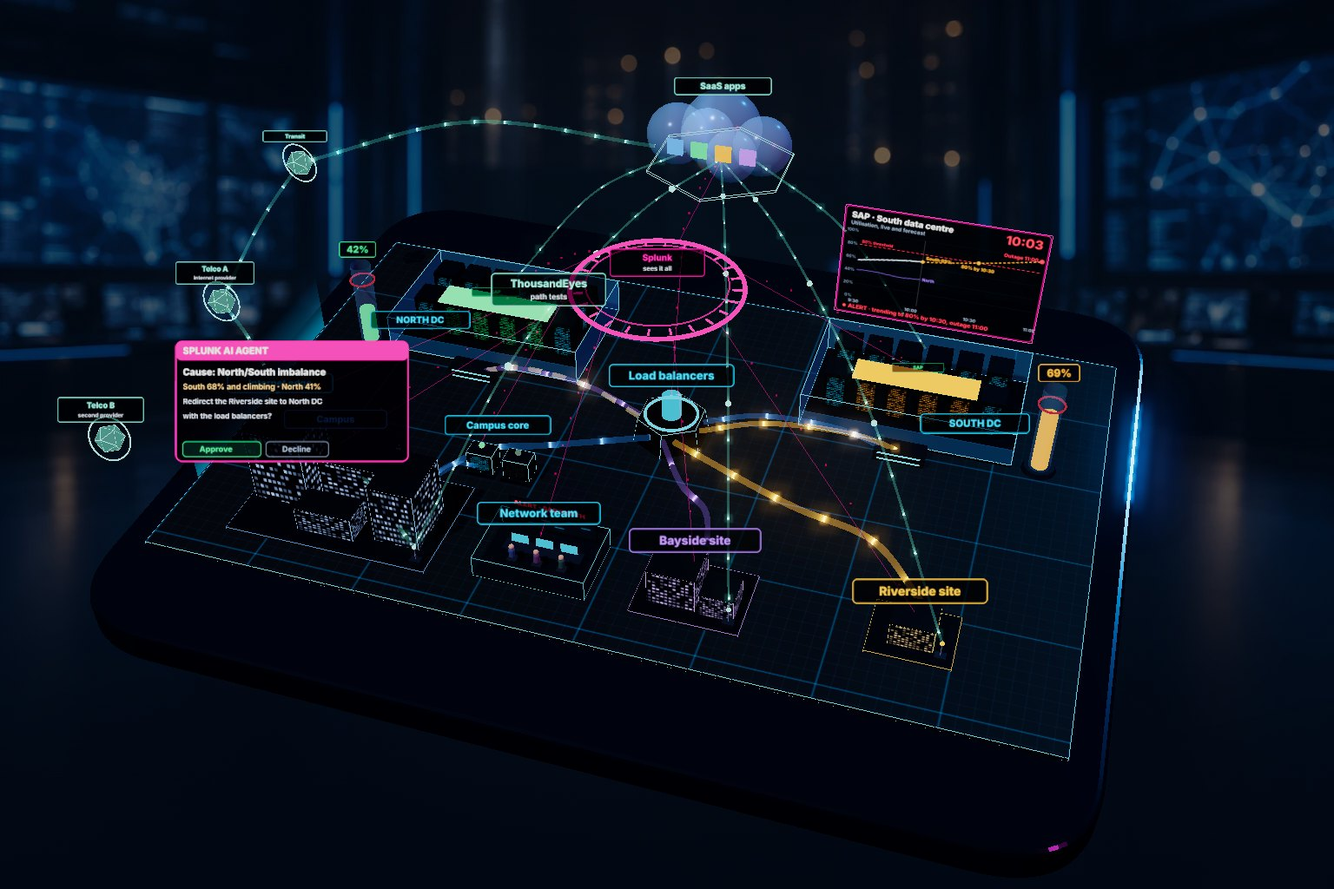
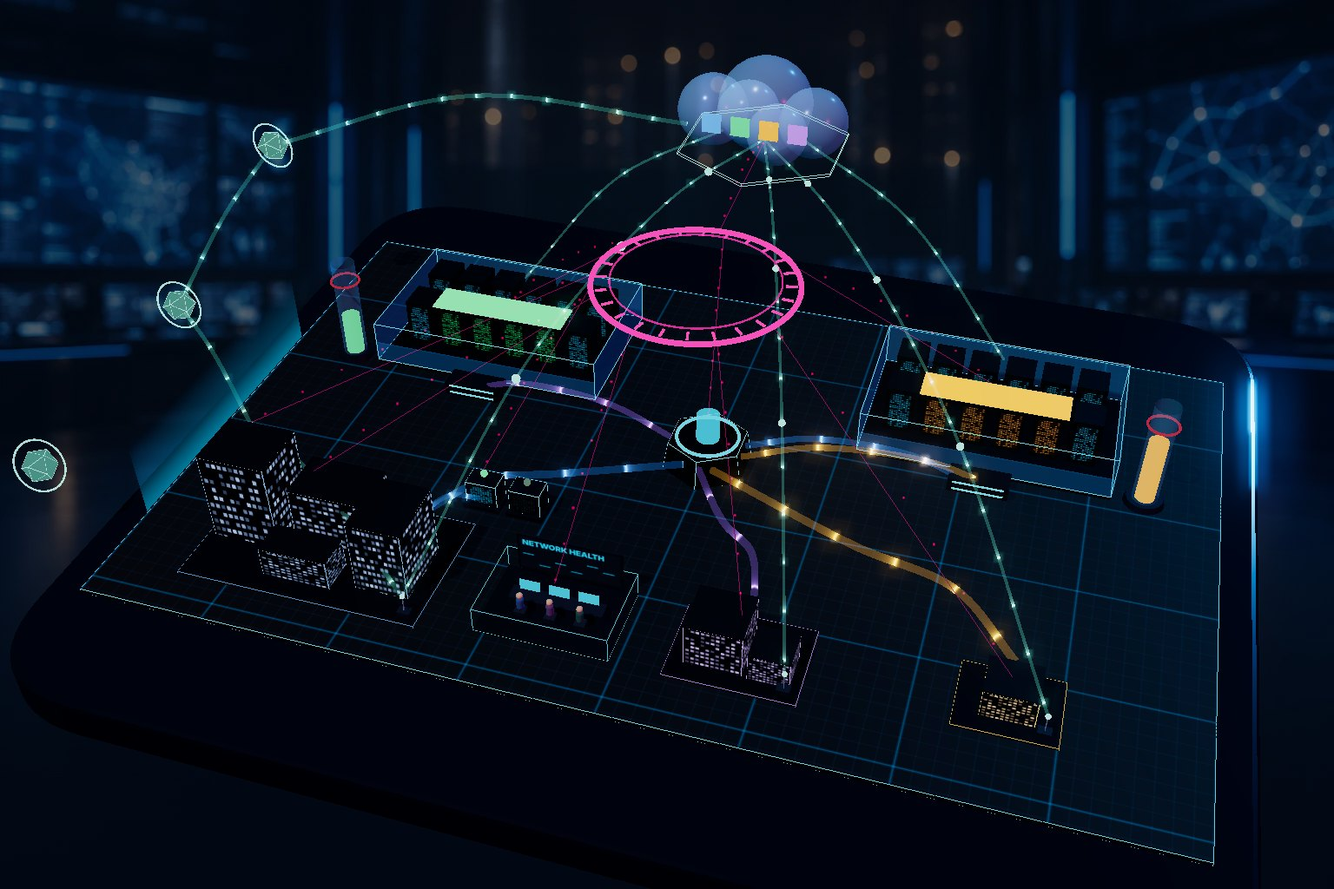
AI Lab: Play all three and Next place in every world; Splunk lab clean board and poster
LabExplorer gains a Play all button (plays the three places in order, each
moving on a moment after it ends) and a Next place button when an exhibit
ends; switching places inside the close-up replaces the URL so Close still
leaves. Renderer synced: the Splunk board shows only its three markers in the
AI Lab, markers in every world step aside instead of vanishing on small
canvases, and the alert storm names Event iQ's recommendation. Share collage
refreshed with the clean Splunk poster.

Validated: tsc, production build, play-all probe at 1440x900 and 390x844
(1 of 3 -> 2 of 3 -> 3 of 3, Next buttons, run ends after the last, no errors).

Claude-Session: https://claude.ai/code/session_01KTF4TLEyB4dRbRHCAgEm3H

diff --git a/app/ai-lab/LabExplorer.tsx b/app/ai-lab/LabExplorer.tsx
@@ -22,8 +22,12 @@ export default function LabExplorer({industry}:{industry:LabIndustry}){
  const request=useRef(0),returnFocus=useRef<HTMLElement|null>(null),idRef=useRef<string|null>(null),pushed=useRef(false),full=useRef(false),nativeFull=useRef(false),ignoreCloseUntil=useRef(0),fullscreenButton=useRef<HTMLButtonElement>(null);
  const [id,setId]=useState<string|null>(null),[ready,setReady]=useState(false),[loaded,setLoaded]=useState(false),[failed,setFailed]=useState(false),[phase,setPhase]=useState(0),[playing,setPlaying]=useState(true);
  const [fullscreen,setFullscreen]=useState(false),[rs,setRs]=useState<RecipeState|null>(null);
+ // Play all three (owner, 30 Oct 2026: "an easy way to play all three"): the places play in order, each moving on a
+ // moment after it ends. Choosing a place yourself or closing the close-up ends the run.
+ const [tour,setTour]=useState(false),tourRef=useRef(false);tourRef.current=tour;
  const {registry,failed:registryFailed}=useLabRegistry(),registryRef=useRef(registry);registryRef.current=registry;
  const world=LAB_WORLDS[industry],featured=registry?.FEATURED[industry]??[];
+ const placeIndex=id?featured.findIndex(r=>r.id===id):-1,nextPlace=placeIndex>=0?featured[placeIndex+1]??null:null;
  const recipe=id&&registry&&Object.hasOwn(registry.RECIPES,id)?registry.RECIPES[id]:null;
  const legacy=id&&!recipe?EXHIBITS[id]??null:null;
  const title=recipe?.title??legacy?.title;
@@ -55,8 +59,11 @@ export default function LabExplorer({industry}:{industry:LabIndustry}){
   if(!id&&!fullscreen)return;const overflow=document.body.style.overflow;document.body.style.overflow='hidden';
   return()=>{document.body.style.overflow=overflow;};
  },[id,fullscreen]);
- const select=useCallback((next:string,history=true)=>{
+ const select=useCallback((next:string,history=true,fromTour=false)=>{
   if(!allowed(registryRef.current,industry,next))return;
+  if(!fromTour)setTour(false);
+  // Moving between places inside the close-up replaces the URL rather than stacking history, so Close still leaves.
+  if(idRef.current&&history){const url=new URL(window.location.href);url.searchParams.set('example',next);window.history.replaceState({...window.history.state,labExhibit:true},'',url);history=false;}
   if(full.current)exitFullscreen();
   returnFocus.current=document.activeElement instanceof HTMLElement?document.activeElement:null;
   if(history){const url=new URL(window.location.href);url.searchParams.set('example',next);window.history.pushState({...window.history.state,labExhibit:true},'',url);pushed.current=true;}
@@ -65,9 +72,17 @@ export default function LabExplorer({industry}:{industry:LabIndustry}){
   setId(next);
  },[industry,exitFullscreen,isModel]);
  const close=useCallback(()=>{
+  setTour(false);
   if(pushed.current){pushed.current=false;window.history.back();}
   else{const url=new URL(window.location.href);url.searchParams.delete('example');window.history.replaceState({...window.history.state,labExhibit:false},'',url);setId(null);}
  },[]);
+ // Play all: a moment after a place ends, the next one opens; after the last, the run ends.
+ useEffect(()=>{
+  if(!tour||!rs?.ended)return;
+  if(!nextPlace){setTour(false);return;}
+  const t=setTimeout(()=>{if(tourRef.current)select(nextPlace.id,true,true);},2600);
+  return()=>clearTimeout(t);
+ },[tour,rs?.ended,nextPlace,select]);
  useEffect(()=>{
   if(!registry)return;
   const read=()=>{pushed.current=!!window.history.state?.labExhibit;const query=new URLSearchParams(window.location.search).get('example');const ok=!!query&&allowed(registry,industry,query);if(ok&&isModel(query))prepare();setId(ok?query:null);};
@@ -151,10 +166,12 @@ export default function LabExplorer({industry}:{industry:LabIndustry}){
       {rs?.sensor&&<div className="ex-sensor-tag" role="status"><span>{rs.sensorTitle??'Camera view'}{rs.sensorLabel?<small> · {rs.sensorLabel}</small>:null}</span><button onClick={()=>command('sensor',{value:false})}>Back to scene</button></div>}
        <div className="ex-stops" role="group" aria-label="Chapters">{recipe.chapters.map((c,i)=><button key={c.id} data-chapter-stop={c.id} aria-current={i===chapterIndex?'step':undefined} onClick={()=>command('chapter',{index:i})}><b>{i+1}</b>{chapterName(c)}</button>)}</div>
        <div className="ex-actions">
+        {tour&&placeIndex>=0&&<span className="ex-tour" role="status">Playing all · {placeIndex+1} of {featured.length}{rs?.ended&&nextPlace?' · next in a moment':''}</span>}
         <button data-action="play" onClick={()=>command(rs?.playing?'pause':'play')}>{rs?.playing?'Pause':rs?.ended?'Play again':'Play'}</button>
         <button data-action="replay" onClick={()=>command('replay')}>Replay</button>
         <button data-action="hold" aria-pressed={!!rs?.hold} onClick={()=>command('hold',{value:!rs?.hold})} title="Pause at the end of each chapter">Hold at chapters</button>
         {narration.available&&(narration.blocked&&!narration.muted?<button data-action="sound" onClick={narration.tapForSound}>Tap for sound</button>:<button data-action="sound" aria-pressed={!narration.muted} onClick={narration.toggleMute} title="Narration">{narration.muted?'Sound off':'Sound on'}</button>)}
+        {rs?.ended&&nextPlace&&<button data-action="next-place" onClick={()=>select(nextPlace.id,true,tour)}>Next: {nextPlace.title} →</button>}
         {recipe.variation&&<button data-action="variation" aria-pressed={variationOn} onClick={()=>command('variation',{value:variationOn?null:recipe.variation!.id})} title={recipe.variation.caption}>{recipe.variation.label}</button>}
        </div>
       </div>
@@ -173,6 +190,6 @@ export default function LabExplorer({industry}:{industry:LabIndustry}){
    </dialog>
   </section>
 
-  <div className="ex-bottom"><nav className="ex-places" aria-label="Places to explore"><span className="al-eyebrow">PLACES TO EXPLORE</span>{featured.map(r=><button key={r.id} data-recipe-choice={r.id} onClick={()=>select(r.id)}>{r.title}<span>↗</span></button>)}{!registry&&!registryFailed&&<p className="ex-places-loading">Loading places…</p>}{registryFailed&&<p className="ex-places-loading">Places could not load. Select a marker in the world.</p>}</nav><p className="ex-disclosure">Fictional industry worlds · illustrative AI workflows</p><LabFooter/></div>
+  <div className="ex-bottom"><nav className="ex-places" aria-label="Places to explore"><span className="al-eyebrow">PLACES TO EXPLORE</span>{featured.length>1&&<button className="ex-play-all" data-action="play-all" onClick={()=>{const first=featured[0];if(!first)return;setTour(true);select(first.id,true,true);}}>▶ Play all {featured.length===3?'three':featured.length}<span>{featured.length} short stories, one after another</span></button>}{featured.map(r=><button key={r.id} data-recipe-choice={r.id} onClick={()=>select(r.id)}>{r.title}<span>↗</span></button>)}{!registry&&!registryFailed&&<p className="ex-places-loading">Loading places…</p>}{registryFailed&&<p className="ex-places-loading">Places could not load. Select a marker in the world.</p>}</nav><p className="ex-disclosure">Fictional industry worlds · illustrative AI workflows</p><LabFooter/></div>
  </main>;
 }

diff --git a/public/map-assets/lab/exhibit-runner.js b/public/map-assets/lab/exhibit-runner.js
@@ -5,7 +5,6 @@ import {createSensorView,fitSensorCamera} from './exhibit-sensor.js';
 import {createOverlay,projectRect} from './exhibit-overlay.js';
 import {createProps} from './exhibit-props.js';
 import {createActors} from './exhibit-actors.js';
-import {createMediaClock} from './exhibit-media-clock.js';
 
 // Runs one recipe exhibit on the shared stage: timeline, guided camera, sensor view, overlay, controls, messages.
 const OVERLAY_DELAY=.5,SWEEP_SECONDS=1.2,REVIEW_AFTER=2.2,HOME={angle:.55,elevation:.42};
@@ -51,7 +50,7 @@ export function runRecipe(recipe,stage,host,notify,buildKit=KITS[recipe.id]){
       return{...c,camera:portrait&&aspect<1?{...cam,...portrait}:{...cam,distance:cam.distance*f}};});
   }
 
-  let captions=true,user=null,easeFrom=null,sensorOff=false,lastIndex=-1,sig='',pose=null,activeCamera=orbit,overlayInfo=null,mediaClock=null;
+  let captions=true,user=null,easeFrom=null,sensorOff=false,lastIndex=-1,sig='',pose=null,activeCamera=orbit,overlayInfo=null;
   const points=new Map();let gesture=null;
   const outward=new THREE.Vector3();
   function placeOrbit(p){outward.set(Math.sin(p.angle)*Math.cos(p.elevation),Math.sin(p.elevation),Math.cos(p.angle)*Math.cos(p.elevation));
@@ -73,12 +72,12 @@ export function runRecipe(recipe,stage,host,notify,buildKit=KITS[recipe.id]){
   // From the AI view on, the variation's caption replaces the chapter's; variation.captions[chapterId] overrides it per chapter.
   const captionFor=i=>{const v=tl.variation&&recipe.variation;if(!v||aiIndex<0||i<aiIndex)return chapters[i].caption;return v.captions?.[chapters[i].id]??v.caption??chapters[i].caption;};
   function subjectAnchor(i){const id=chapters[i].overlay?.anchor||chapters.find(c=>c.id==='aiView')?.overlay?.anchor||Object.keys(anchors)[0];return anchors[id];}
-  function state(){const i=tl.index;return{id:recipe.id,chapter:i,chapterId:idOf(i),time:tl.time,duration:recipe.duration,playing:mediaClock?mediaClock.playing:tl.playing,variation:tl.variation,hold:tl.hold,sensor:activeCamera!==orbit,sensorLabel:activeCamera!==orbit?(sensors[chapters[i].sensor]?.label||'site camera'):null,sensorTitle:activeCamera!==orbit?(sensors[chapters[i].sensor]?.title||null):null,ended:tl.ended};}
+  function state(){const i=tl.index;return{id:recipe.id,chapter:i,chapterId:idOf(i),time:tl.time,duration:recipe.duration,playing:tl.playing,variation:tl.variation,hold:tl.hold,sensor:activeCamera!==orbit,sensorLabel:activeCamera!==orbit?(sensors[chapters[i].sensor]?.label||'site camera'):null,sensorTitle:activeCamera!==orbit?(sensors[chapters[i].sensor]?.title||null):null,ended:tl.ended};}
 
   function update(dt){
-    if(mediaClock)tl.seek(mediaClock.at(performance.now()));else tl.step(dt);
+    tl.step(dt);
     const t=tl.time,i=tl.index,w=host.clientWidth,h=host.clientHeight;
-    if(i!==lastIndex){if(!mediaClock){if(lastIndex>=0&&user)easeFrom={index:i,pose:user};else if(lastIndex>=0&&i!==lastIndex+1)easeFrom=null;user=null;sensorOff=false;}lastIndex=i;}
+    if(i!==lastIndex){if(lastIndex>=0&&user)easeFrom={index:i,pose:user};else if(lastIndex>=0&&i!==lastIndex+1)easeFrom=null;user=null;sensorOff=false;lastIndex=i;}
     const c=chapters[i],sensor=c.sensor&&!sensorOff?sensors[c.sensor]:null;
     kit.update(t,{...ctxFor(i),sensor:!!sensor});
     if(w>0&&h>0){const aspect=w/h;framesFor(aspect);orbit.aspect=aspect;orbit.updateProjectionMatrix();if(sensor)fitSensorCamera(sensor.camera,aspect);}
@@ -123,12 +122,6 @@ export function runRecipe(recipe,stage,host,notify,buildKit=KITS[recipe.id]){
     if(e.shiftKey&&e.key.startsWith('Arrow')){stop(e);e.preventDefault();takeOver();pan(e.key==='ArrowLeft'?35:e.key==='ArrowRight'?-35:0,e.key==='ArrowUp'?35:e.key==='ArrowDown'?-35:0);send();return;}
     const keys={ArrowLeft:1,ArrowRight:1,PageUp:1,PageDown:1,ArrowUp:1,ArrowDown:1,'+':1,'-':1,' ':1,Home:1,r:1,R:1};if(!keys[e.key]&&e.code!=='KeyF')return;
     stop(e);e.preventDefault();
-    if(mediaClock){
-      if(e.key===' '){notify({mediaAction:'toggle'});return;}
-      if(e.key==='ArrowRight'||e.key==='PageDown'){notify({mediaAction:'chapter',index:tl.index+1});return;}
-      if(e.key==='ArrowLeft'||e.key==='PageUp'){notify({mediaAction:'chapter',index:tl.index-1});return;}
-      if(e.key==='r'||e.key==='R'){notify({mediaAction:'chapter',index:tl.index});return;}
-    }
     if(e.key==='ArrowRight'||e.key==='PageDown')seekChapter(tl.index+1);
     else if(e.key==='ArrowLeft'||e.key==='PageUp')seekChapter(tl.index-1);
     else if(e.key==='r'||e.key==='R')seekChapter(tl.index);
@@ -166,7 +159,6 @@ export function runRecipe(recipe,stage,host,notify,buildKit=KITS[recipe.id]){
       camera:pose&&{angle:pose.angle,elevation:pose.elevation,distance:pose.distance,target:pose.target},userCamera:!!user,kit:kit.metrics?.()||null};
   }
   return{scene,get camera(){return activeCamera;},update,command,
-    setClock(sample){mediaClock??=createMediaClock(recipe.duration);mediaClock.sample(sample,performance.now());tl.pause();update(0);},
     setTime(t){const before=tl.index;tl.pause();tl.seek(t);user=null;easeFrom=null;if(tl.index!==before)sensorOff=false;lastIndex=tl.index;send();},
     chapter(n){seekChapter(n);tl.pause();send();},
     metrics,

diff --git a/public/map-assets/lab/recipes/splunk.alert-storm.js b/public/map-assets/lab/recipes/splunk.alert-storm.js
@@ -5,7 +5,7 @@
 // next step. Not "machine learning clustering". Sites, counts and times are illustrative.
 export default {
   id:'splunk.alert-storm', world:'splunk', featured:true, order:2,
-  locationId:'splunk.campus.core', label:'Alert storm', view:'core', anchor:[-3.5,2.6,1.0],
+  locationId:'splunk.campus.core', label:'Alert storm', view:'core', anchor:[-3.7,1.5,1.0],
   title:'Forty alerts, one cause',
   benefit:'When one switch fails and forty alerts fire, Splunk shows the team one problem with its likely cause, so they fix the switch instead of chasing forty tickets.',
   limits:'Illustrative: the sites, counts and times are made up. Event iQ groups alerts by matching their fields, the network’s topology and near-matches, and its summary is written by a large language model; it suggests a cause and a next step with a confidence level, and people decide. It groups only what the alerts and topology data connect, so a real second problem stays its own episode.',
@@ -24,13 +24,13 @@ export default {
       camera:{angle:.12,elevation:.62,distance:6.6,target:[-.6,.38,.2],portrait:{angle:.08,elevation:.7,distance:9.6,target:[-.8,.42,.3]}},
       overlay:{anchor:'noc',label:'40 alerts · 9 systems',state:'noticed'},
       say:'What: the core switch loses power. Every building’s switch, the ThousandEyes agent, the load balancers, SAP in both data centres and the SaaS tests all raise alerts. Forty of them reach the network team in a minute and a half. So what: forty alerts look like forty problems. Now what: see what Splunk makes of them.'},
-    {id:'aiView',at:13,label:'One episode',caption:'Event iQ pulls all forty into one episode at Core A',sensor:'splunk-view',
+    {id:'aiView',at:13,label:'One episode',caption:'One cause, Core A. Event iQ recommends moving to Core B',sensor:'splunk-view',
       overlay:{anchor:'coreA',label:'Likely cause · Core A',state:'noticed'},
-      say:'What: this is Splunk’s view. Event iQ matches the alerts’ fields and the network’s topology, traces them back along the links, and groups all forty into one episode. Its summary names the likely root cause, Core A, and suggests a next step with a confidence level. So what: one problem, one owner, one fix. Now what: the team decides.'},
-    {id:'review',at:21,label:'Fixed once',caption:'Uplinks move to Core B. One fix clears all forty',
+      say:'What: this is Splunk’s view. Event iQ matches the alerts’ fields and the network’s topology, traces all forty back along the links and groups them into one episode. Its summary names the likely root cause, Core A, and recommends the next step: move the campus uplinks to the standby switch, Core B, with a confidence level. So what: one problem, one owner, one recommended fix. Now what: the team decides.'},
+    {id:'review',at:21,label:'Fixed once',caption:'The team approves the move. All forty alerts clear',
       camera:{angle:-.28,elevation:.42,distance:4.1,target:[-1.15,.3,.75],ease:1.6,portrait:{angle:-.25,elevation:.5,distance:6.4,target:[-1.2,.35,.8]}},
       overlay:{anchor:'coreB',label:'Campus on Core B',state:'neutral'},
-      say:'What: the team approves. The campus uplinks move to Core B, the buildings come back and the forty alerts clear together. So what: the team fixed one switch instead of working forty tickets. Now what: the failed power supply on Core A gets replaced in hours, not in the middle of a firefight.'},
+      say:'What: the team approves Event iQ’s recommendation. The campus uplinks move to Core B, the buildings come back and the forty alerts clear together. So what: one approved change fixed what looked like forty problems. Now what: the failed power supply on Core A gets replaced in hours, not in the middle of a firefight.'},
   ],
   variation:{id:'two-causes',label:'Two causes',caption:'Two causes, two episodes: Bayside stays separate',
     captions:{review:'Campus fixed. Bayside is its own ticket'},

diff --git a/public/map-assets/viewer.js b/public/map-assets/viewer.js
@@ -15,15 +15,15 @@ const params=new URLSearchParams(location.search), capture=params.get('capture')
 const worldKind=document.body.dataset.world||'energy';
 const isMining=worldKind==='mining';
 // Worlds beyond energy and mining load their own module by these generic exports: createWorld, WORLD_SEED, WORLD_VIEWS.
-const EXTRA_WORLDS={'mining-region':'./mining-region-scene.js',datacenter:'./datacenter-scene.js',nextdc:'./nextdc-scene.js',retail:'./retail-scene.js',local:'./local-scene.js',meeting:'./meeting-scene.js',splunk:'./splunk-scene.js','marlow-vale':'./marlow-vale-scene.js',ukraine:'./ukraine/ukraine-scene.js'};
+const EXTRA_WORLDS={datacenter:'./datacenter-scene.js',nextdc:'./nextdc-scene.js',retail:'./retail-scene.js',local:'./local-scene.js',meeting:'./meeting-scene.js',splunk:'./splunk-scene.js','marlow-vale':'./marlow-vale-scene.js',ukraine:'./ukraine/ukraine-scene.js'};
 // AI Lab worlds (markers, exhibits): energy, mining, retail, datacenter, local (the laptop) and meeting (the Town Hall
 // room). Retail, datacenter, local and meeting load as extra worlds; location pins stay energy/mining/retail. In lab mode the datacenter's own hotspots give way
 // to the three lab markers.
-const labWorld=worldKind==='mining-region'?'mining-region':isMining?'mining':['retail','datacenter','local','meeting','splunk','ukraine'].includes(worldKind)?worldKind:'energy';
+const labWorld=isMining?'mining':['retail','datacenter','local','meeting','splunk','ukraine'].includes(worldKind)?worldKind:'energy';
 // Personal-site-only worlds carry their own exhibit registry ({RECIPES, FEATURED, KITS}) beside the world module. It is
 // imported only for that world and merged over the shared lab registry, which never imports it (so a host that does
 // not ship the folder is unaffected). Such folders are excluded by scripts/sync-lab-worlds.mjs.
-const LAB_EXTRA={'mining-region':'./mining-business-labs.js',ukraine:'./ukraine/index.js'};
+const LAB_EXTRA={ukraine:'./ukraine/index.js'};
 const labExtra=Object.hasOwn(LAB_EXTRA,labWorld)?await import(LAB_EXTRA[labWorld]).catch(e=>{console.error(e);return null;}):null;
 const loadLabRegistry=()=>import('./lab/recipes/index.js').then(m=>labExtra?{...m,RECIPES:{...m.RECIPES,...labExtra.RECIPES},FEATURED:{...m.FEATURED,...labExtra.FEATURED}}:m);
 const labExperience=params.get('experience')==='lab';
@@ -98,8 +98,6 @@ async function handleExhibit(data){
     if(saved?.mode==='fly'){camera.position.copy(saved.position);camera.quaternion.copy(saved.quaternion);camera.updateMatrixWorld();navigation?.enterFly({capture:false});}
     reply('exhibit:closed');return;
   }
-  if(data.type==='exhibit:command'&&data.action==='clock'&&Number.isFinite(data.time)){exhibit?.setClock?.({time:data.time,playing:data.playing===true,rate:data.rate});return;}
-  if(data.type==='exhibit:command'&&data.action==='seek'&&Number.isFinite(data.time)){exhibit?.setTime(data.time);render();return;}
   if(data.type==='exhibit:command'){if(['play','pause','replay','reset','next','back','chapter','variation','hold','sensor','captions'].includes(data.action))exhibit?.command(data.action,{index:data.index,value:data.value});return;}
   if(data.type!=='exhibit:open')return;
   // Allow-list: this world's recipes plus its retired (legacy) ids.

diff --git a/public/map-assets/lab-layer.js b/public/map-assets/lab-layer.js
@@ -48,10 +48,16 @@ export function createLabLayer(world, industry, host, onSelect) {
     const ordered=[...markers].sort((a,b)=>Number(b.recipe.id===active.id)-Number(a.recipe.id===active.id));
     for(const {recipe,marker,width}of ordered){
       projected.fromArray(recipe.anchor);projected.y+=.65;world.root.localToWorld(projected);projected.project(camera);
-      const x=(projected.x*.5+.5)*host.clientWidth,y=(-projected.y*.5+.5)*host.clientHeight;
-      const overlap=placed.some(p=>Math.abs(p.x-x)<(p.width+width)/2+8&&Math.abs(p.y-y)<52);
-      marker.hidden=overlap||x-width/2<8||x+width/2>host.clientWidth-8||y<48||projected.z>1||projected.z< -1||Math.abs(projected.x)>.94||Math.abs(projected.y)>.9;
-      marker.style.left=x+'px';marker.style.top=y+'px';if(!marker.hidden)placed.push({x,y,width});
+      // A marker whose anchor is on screen is never dropped for space (30 Oct 2026: on a phone-sized AI Lab canvas the
+      // third marker vanished, e.g. "Speakers"): it is clamped inside the edges and, if it would cover a marker already
+      // placed, it steps up or down a row until it fits. Only an anchor behind the camera or well off screen hides it.
+      const W=host.clientWidth,H=host.clientHeight,ax=(projected.x*.5+.5)*W,ay=(-projected.y*.5+.5)*H;
+      const offscreen=projected.z>1||projected.z< -1||Math.abs(projected.x)>1.02||Math.abs(projected.y)>.98;
+      const clampX=v=>Math.min(Math.max(v,width/2+8),W-width/2-8);let x=clampX(ax),y=null;
+      const tries=[[0,0],[0,-54],[0,54],[width+12,0],[-width-12,0],[0,-108],[0,108],[width+12,-54],[-width-12,-54]];
+      for(const [dx,dy] of tries){const cx=clampX(ax+dx),cy=ay+dy;if(cy<48||cy>H-4)continue;if(!placed.some(p=>Math.abs(p.x-cx)<(p.width+width)/2+8&&Math.abs(p.y-cy)<52)){x=cx;y=cy;break;}}
+      marker.hidden=offscreen||y===null||W<width+16;
+      marker.style.left=x+'px';marker.style.top=(y??ay)+'px';if(!marker.hidden)placed.push({x,y,width});
     }
   }
   function diagnostics(){return{locationId:active.locationId,recipeId:active.id,industry,...state,recipes:recipes.map(r=>({id:r.id,locationId:r.locationId,view:r.view})),issueVisible:issue.visible,occlusionVisible:cover.visible,keyIntensity:world.key.intensity,issuePieces:issue.children.length,simulation:true,inference:false,controlConnected:false};}

diff --git a/public/map-assets/splunk-scene.js b/public/map-assets/splunk-scene.js
@@ -20,7 +20,7 @@ export const toWorld = ([x, y, z]) => [x * S, Y0 + y * S, BOARD_Z + z * S];
 
 // Views for the shared viewer (distance is about 36 / zoom on a desktop screen). Azimuth 0 looks from the front (+z).
 const SPLUNK_VIEWS_BASE = {
-  hero: {yaw: 0, target: [0.3, 0.9, -0.2], zoom: 1.04, tilt: 0.7, azimuth: 0.3, fov: 34},
+  hero: {yaw: 0, target: [-0.6, 1.1, -0.6], zoom: 1.22, tilt: 0.68, azimuth: 0.3, fov: 34},
   sap: {yaw: 0, target: [5.2, 2.0, -4.6], zoom: 2.7, tilt: 0.42, azimuth: 0.28, fov: 36},
   balancers: {yaw: 0, target: [0, 1.2, -1.2], zoom: 2.6, tilt: 0.62, azimuth: -0.25, fov: 36},
   sites: {yaw: 0, target: [-1.5, 1.2, 3.2], zoom: 2.1, tilt: 0.55, azimuth: 0.15, fov: 36},
@@ -95,7 +95,23 @@ export function createSplunkScene() {
 
   const net = buildNetwork(k, {parent: holder, scale: S, y: Y0, z: BOARD_Z, detail: 'world'});
 
+  // In the AI Lab (experience=lab, or any embed) the three lab markers are the only things to click, so the board drops
+  // every floating sign, card and the forecast panel and runs a calm, healthy network: traffic, path tests and telemetry
+  // moving, gauges green. The stories play inside the exhibits. The standalone wrapper keeps its labels, pins and the
+  // SAP story loop. Owner, 30 Oct 2026: "no more weird signs on the main world that confuse from the landmarks".
+  const query = new URLSearchParams(location.search);
+  const LAB = query.get('experience') === 'lab' || query.get('embed') === '1';
+  const signs = [];
+  if (LAB) {
+    net.group.traverse(o => { if (o.isSprite) signs.push(o); });
+    net.panel.visible = false;
+  }
   world.updates.push(t => {
+    if (LAB) {
+      net.update(t, {clock: 44});
+      for (const o of signs) o.visible = false;
+      return;
+    }
     const s = ((t % CYCLE) + CYCLE) % CYCLE;
     net.update(t, storyAt(world.storyNow != null ? world.storyNow : s));
   });

diff --git a/app/ai-lab/lab.css b/app/ai-lab/lab.css
@@ -171,3 +171,9 @@
 
 /* Why run it locally (local world): one row per benefit, the key as a small pill. */
 .ex-why>span{display:block;font:600 15px/1.5 "Helvetica Neue",Arial,sans-serif;color:#78dcff}.ex-why ul{list-style:none;margin:8px 0 0;padding:0;display:grid;gap:10px}.ex-why li{font-size:15px;line-height:1.5;color:#d5e6f0}.ex-why b{display:inline-block;margin-right:8px;padding:1px 8px;border:1px solid #00aeff70;border-radius:999px;font:600 11px/1.6 ui-monospace,monospace;letter-spacing:.5px;color:#78dcff;text-transform:uppercase}
+/* Play all three and Next place (30 Oct 2026). */
+.ex-places .ex-play-all{flex:1 1 100%;min-height:56px;background:linear-gradient(90deg,#00aeff26,#06182c 70%);border-color:#00aeff;font-weight:600}
+.ex-places .ex-play-all>span{color:#9fd8f0;font-weight:400;font-size:13px}
+.ex-actions button[data-action=next-place]{background:#00aeff;border-color:#78dcff;color:#00121f;font-weight:700}
+.ex-tour{font-size:12px;color:#78dcff;padding:0 6px}
+

diff --git a/CLAUDE.md b/CLAUDE.md
@@ -80,6 +80,7 @@ After any shared-module change, compare paused, fixed-time frames of `/lab-world
 - **AI Lab links out only to the Decision Room** (owner, 24 Oct 2026): the AI Lab header must not link to `/links` or any resource index. `/links` still lists the AI Lab; the link just never goes the other way.
 - **Meeting rooms world** (26 Oct 2026): `/ai-lab/meeting` is the sixth world (the Town Hall room: Cisco Room Vision PTZ, Ceiling Microphone Pro, Ceiling Speaker Pro, one cable each into a Room Kit Pro G2). Added like retail and local: `LabIndustry`, `LABS`, `LAB_WORLDS` and the synced `meeting` wrapper. A sensor can name its view (`sensorTitle`, e.g. "Microphone view", "Sound view"); the sensor tag shows it in place of "Camera view". Provenance may be `kind:'press'`. Learned building it: the desktop exhibit stage here is roughly square, so renderer framings keyed to "portrait" (`aspect<1`) misfire on desktop; test exhibits at a square canvas as well as 1100x700 and a phone.
 - **Splunk world** (28 Oct 2026): `/ai-lab/splunk` is the seventh world (*Inside the network*), added like meeting, first with one exhibit (`splunk.sap-forecast`), three since the same day (`splunk.alert-storm`, `splunk.path-outside`). `LAB_WORLDS[id].places` (default 3) feeds the hub's PLACES count; a world with fewer exhibits sets it. The hub share collage `public/ai-lab-share.jpg` now has seven posters (4 over 3).
+- **Play all three and Next place** (30 Oct 2026, owner: "an easy way to play all three"): `LabExplorer` has a ▶ Play all button at the top of Places to explore that plays the featured places in order (each opens 2.6 s after the previous ends; choosing a place or closing ends the run), and a "Next: <title> →" button when an exhibit ends. Moving between places inside the close-up replaces the URL instead of stacking history, so Close still leaves.
 - **Share cards** (26 Oct 2026): the root layout's Open Graph tags are the security assessment's, so any route without its own `openGraph` previews as "Security Assessment" when the link is shared. AI Lab routes use `lib/ai-lab/share.ts` (`HUB_SHARE`, `worldShare(id)`: world name, hub tile line, world poster, `summary_large_image`); the hub image is `public/ai-lab-share.jpg`, a 1200x630 collage of the six posters. Give every new public route its own share metadata.
 - **Why run it locally** (24 Oct 2026): a recipe may carry `whyLocal:[{key,text}]` (Privacy, Cost, Latency, Security, Offline); `LabExplorer` shows it as its own panel above Where this runs. Claim only what the scene stands behind (the GPU browser agent claims no speed win).
 - **AI Lab hub tiles** (23 Oct 2026): `HUB_WORLDS` in `lib/ai-lab/content.ts` is the tile order (energy, mining, retail, datacenter), two columns on desktop and one on phones, so the datacenter sits next to the supermarket and under it on a phone. The datacenter is also served at `/datacenter`; `bareEyebrow` drops the 'AI IN' prefix from its exhibit headers. Its poster is rendered from the datacenter world (`map-assets/datacenter-poster.jpg`, 1536x1024, synced).
